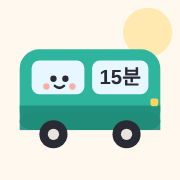
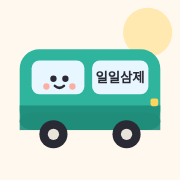
Rename home-screen label
Claude-Session: https://claude.ai/code/session_01VUZsWcb7DTvcSrD5DbwUgA

Changed region(s): [[0.5278, 0.3611, 0.8056, 0.5]]

diff --git a/index.html b/index.html
@@ -6,7 +6,7 @@
 <link rel="icon" type="image/svg+xml" href="icon.svg">
 <link rel="apple-touch-icon" href="icon-180.png">
 <link rel="manifest" href="manifest.webmanifest">
-<meta name="apple-mobile-web-app-title" content="15분 수학">
+<meta name="apple-mobile-web-app-title" content="일일삼제">
 <meta name="apple-mobile-web-app-capable" content="yes">
 <meta name="theme-color" content="#FFF8EE">
 <title>버스 15분 수학</title>
